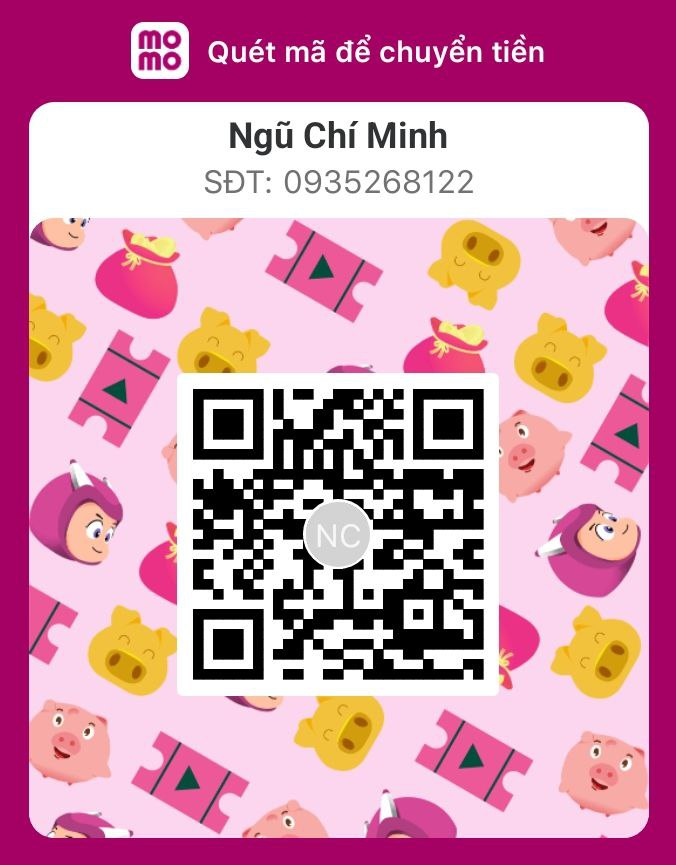
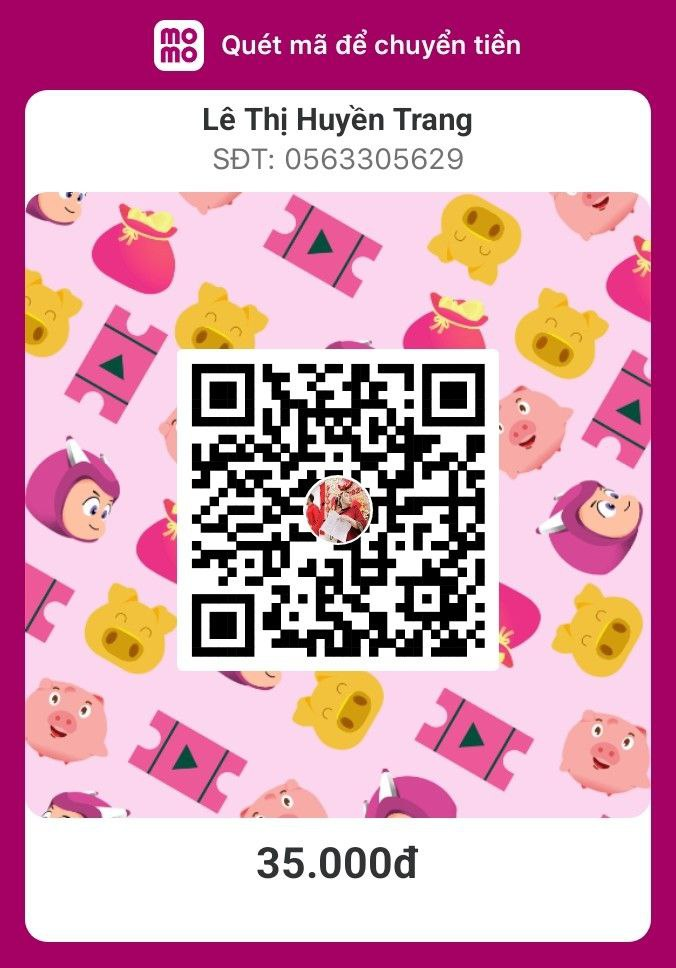
update info

diff --git a/src/services.js b/src/services.js
@@ -13,10 +13,11 @@ async function sendDebt() {
   const message =
     'Mọi người ơi 4h rồi ai còn nợ tiền cơm thì thanh toán nha! \n' +
     '<b>Thông tin thanh toán 💰: </b>\n' +
-    '- <b>momo của Anh Minh:</b> 0935268122\n';
+    '- <b>momo của Chang Lee</b> 056 330 5629\n';
   await bot.telegram.sendMessage(GROUP_CHAT_ID, message, {
     parse_mode: 'HTML',
   });
+  
   await bot.telegram.sendPhoto({ source: 'public/img/qr.jpg' });
 }
 
@@ -135,7 +136,6 @@ async function checkUpdateOrder(ctx, userInfo, selection) {
   const messageGroup = `<b>${userName}</b> đã đặt món '<b>${selection}</b>`;
   const buttons = [
     { text: 'Thêm món', callback_data: 'add_order' },
-    { text: 'Đặt lại', callback_data: 'remove_order' },
   ];
 
   if (userIndex != -1) {
@@ -147,7 +147,7 @@ async function checkUpdateOrder(ctx, userInfo, selection) {
     );
     if (!isDishExist) {
       extraMsg = `bạn muốn đổi sang '<b>${selection}</b>' hay là thêm món?`;
-      buttons.unshift({ text: 'Đổi món', callback_data: 'add_order' });
+      buttons.unshift({ text: 'Đổi món', callback_data: 'change_order' });
     }
 
     const message = `Bạn đã đặt món '<b>${getSelectionString(
@@ -167,8 +167,19 @@ async function checkUpdateOrder(ctx, userInfo, selection) {
   } else {
     // Nếu user chưa tồn tại, lưu thông tin user và lựa chọn vào mảng
     selectionHandle.addSelection(userInfo, selection);
+    const removeOrderButton = [{ text: 'Đặt lại', callback_data: 'remove_order' }];
     const message = `Bạn đã đặt món '<b>${selection}</b>',`;
     await ctx.telegram.sendMessage(userId, message, {
+      parse_mode: 'HTML',
+    });
+
+    // send button     
+    const replyMarkup = {
+      inline_keyboard: [removeOrderButton],
+    }; // Khai báo định dạng message
+
+    await ctx.telegram.sendMessage(userId, message, {
+      reply_markup: replyMarkup,
       parse_mode: 'HTML',
     });
   }

diff --git a/server.js b/server.js
@@ -102,8 +102,8 @@ bot.command('list', (ctx) => {
 bot.command('info', (ctx) => {
   const message =
     '<b>Thông tin thanh toán 💰: </b>\n' +
-    '- <b>momo của người bán</b>: 0902504708 - Nguyễn Thị Tuyết Mai\n' +
-    '- <b>momo của Anh Minh:</b> 0935268122\n';
+    '- <b>momo của chủ quán</b>: 0902504708 - Nguyễn Thị Tuyết Mai\n' +
+    '- <b>momo của Chang Lee</b> 056 330 5629\n';
   ctx.reply(message, { parse_mode: 'HTML' });
   ctx.replyWithPhoto({ source: 'public/img/qr.jpg' });
 });
